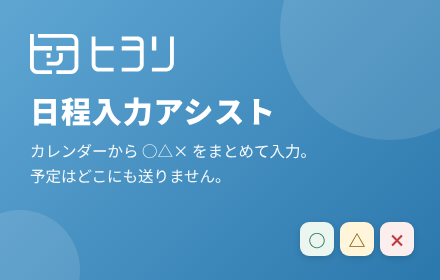
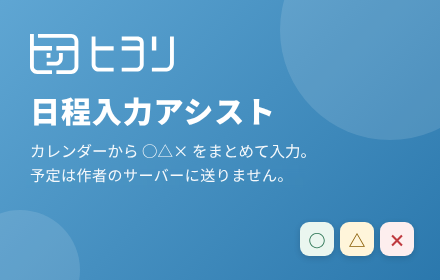
store: 「予定はどこにも送りません」を「作者のサーバーに送りません」に直し、フリカレ書き込みのスクショを追加
フリカレへの書き込み（本人が押したときだけ・予定名は選択制）を足したため、
「どこにも送らない」は言い過ぎになる。説明文・README・画像の文言をそろえた。

Claude-Session: https://claude.ai/code/session_019WhR9J61yTi2MC9QrZgH53

Changed region(s): [[0.0591, 0.6, 0.65, 0.6571]]

diff --git a/store/listing.md b/store/listing.md
@@ -20,8 +20,9 @@ PowerShell で `.\store\pack.ps1` を実行すると `store\dist\hiyori-assist-<
 伝助・デイコード・調整さん・ヒヨリの出欠入力を手伝う拡張機能です。
 フリーカレンダー（フリカレ）やGoogleカレンダーの予定を読んで、入力表に○△×をまとめて入れます。
 
-■ カレンダーの予定はどこにも送りません
-読み込みも○△×への変換も、すべてあなたのブラウザの中で行います。作者のサーバーにも送りません。
+■ 予定は作者のサーバーに送りません
+読み込みも○△×への変換も、すべてあなたのブラウザの中で行います。作者のサーバー（ヒヨリを含む）には送りません。
+フリカレに書き込むのは、あなたが内容を確かめて「書き込む」を押したときだけです。予定名を書くかどうかも選べます（初期値は記号だけ）。
 コードはすべて公開しています。
 https://github.com/matumogura/hiyori-assist
 
@@ -64,7 +65,7 @@ Discord：https://discord.gg/KTBmA3N7tW
 
 **画像**（`store/images/`）
 - アイコン 128×128：`icon-128.png`（ストアの推奨どおり、絵は96×96で周りに16pxの透明な余白。拡張機能の中の `icons/128.png` は余白なしのまま）
-- スクリーンショット 1280×800：`screenshot-1.png` 〜 `screenshot-3.png`
+- スクリーンショット 1280×800：`screenshot-1.png` 〜 `screenshot-4.png`（4 はフリカレへの書き込み。v1.1.0 で追加）
 - 小さいプロモーションタイル 440×280：`promo-small.png`
 - マーキー プロモーション タイル 1400×560：`promo-marquee.png`
 
@@ -118,6 +119,7 @@ https://github.com/matumogura/hiyori-assist/blob/main/PRIVACY.md
 
 既存のアイテムの「パッケージ」→「新しいパッケージをアップロード」から `store\dist\hiyori-assist-1.1.0.zip` を上げる。
 掲載情報の「説明」と、プライバシーへの取り組みの「ホストの権限」を上の文に差し替える（freecalend.com/* が増えたため審査に時間がかかることがある）。
+画像は screenshot-2（文言を「予定は作者のサーバーに送りません」に変更）・screenshot-4（新規）・promo-small・promo-marquee（同じ文言の変更）を上げ直す。
 
 審査の補足欄（任意）
 ```

diff --git a/README.md b/README.md
@@ -3,8 +3,8 @@
 伝助・デイコード・調整さん・ヒヨリの出欠入力を手伝う Chrome 拡張機能です。
 フリーカレンダー（フリカレ）や Googleカレンダーの予定を読んで、入力表に ○△× をまとめて入れます。
 
-**カレンダーの予定は、どこにも送りません。** 読み込みも ○△× への変換も、すべてあなたのブラウザの中で行います。
-作者のサーバー（ヒヨリを含む）にも送りません。このリポジトリでコードを公開しているのは、それを誰でも確かめられるようにするためです。
+**カレンダーの予定は、作者のサーバー（ヒヨリを含む）に送りません。** 読み込みも ○△× への変換も、すべてあなたのブラウザの中で行います。
+フリカレに書き込むのは、あなたが内容を確かめて「書き込む」を押したときだけです（予定名を書くかどうかも選べます。初期値は記号だけ）。このリポジトリでコードを公開しているのは、それを誰でも確かめられるようにするためです。
 
 - 個人情報の扱い：[PRIVACY.md](PRIVACY.md)
 - サポート・質問：[Discord サーバー](https://discord.gg/KTBmA3N7tW)
